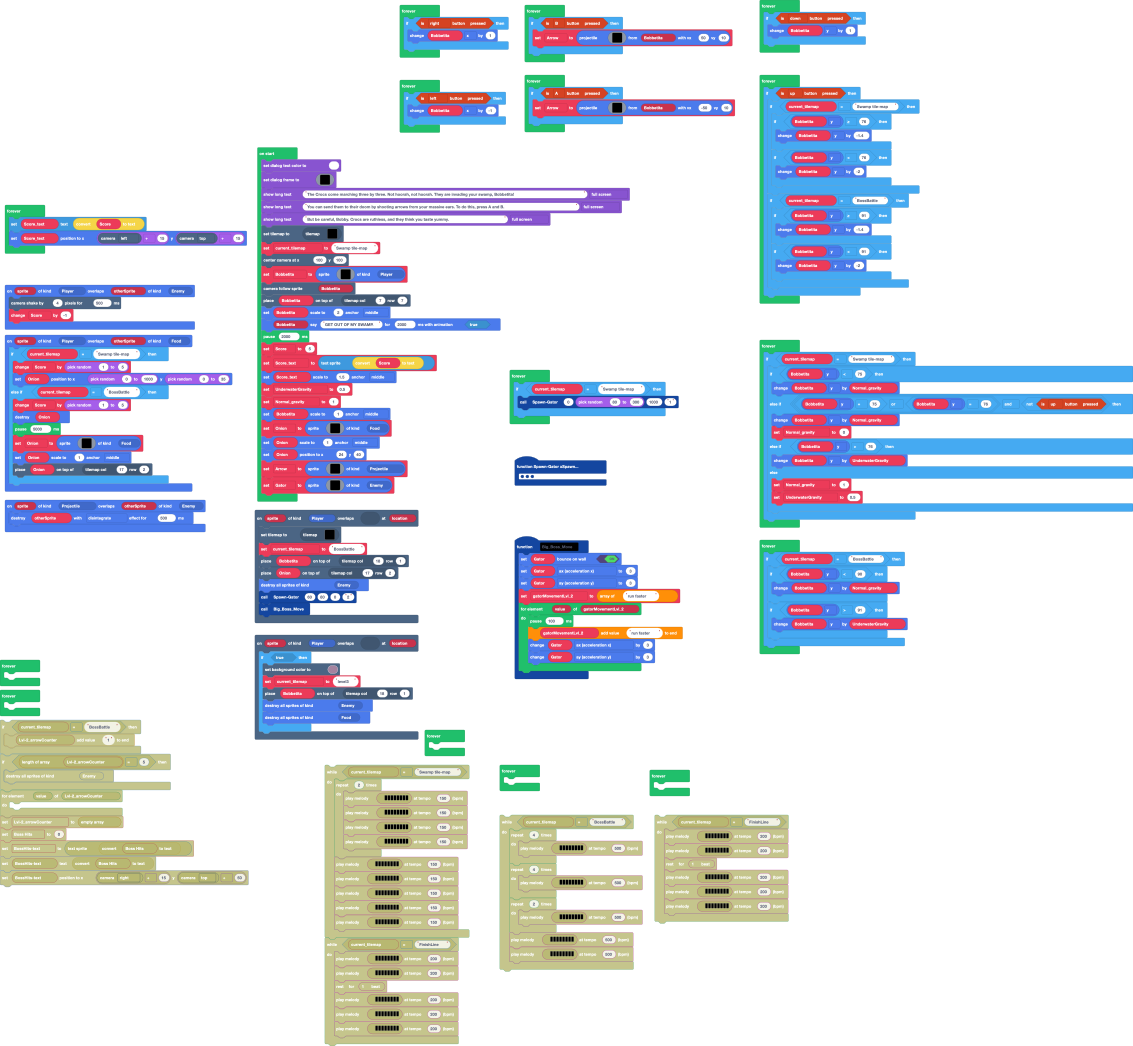
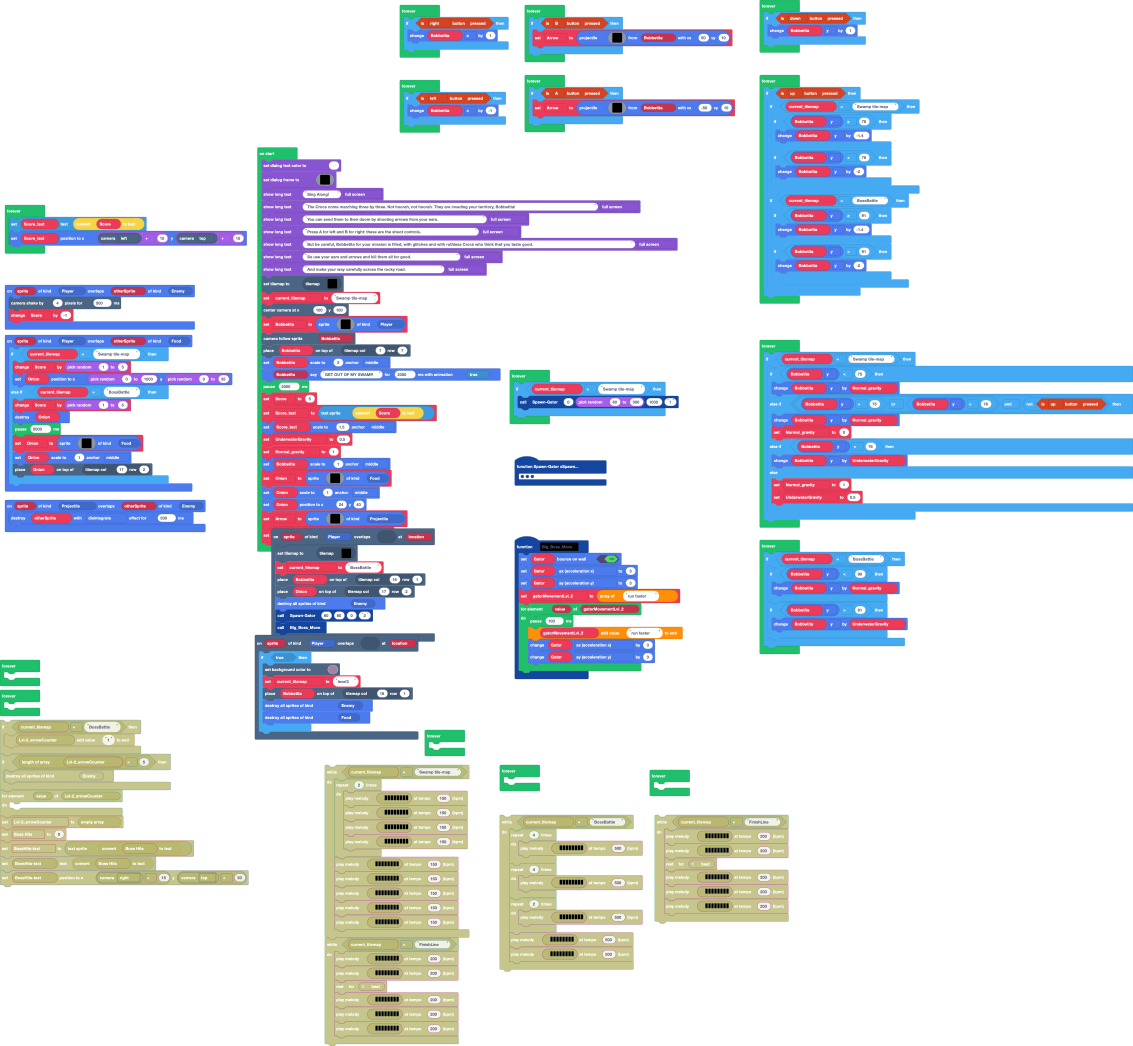
Changed the dialogue to be a song.

Changed region(s): [[0.2162, 0.153, 0.6178, 0.6119]]

diff --git a/main.ts b/main.ts
@@ -75,9 +75,13 @@ let Bobbetita: Sprite = null
 let current_tilemap = ""
 game.setDialogTextColor(1)
 game.setDialogFrame(assets.image`Dialog place`)
-game.showLongText("The Crocs come marching three by three. Not hoorah, not hoorah. They are invading your swamp, Bobbetita!", DialogLayout.Full)
-game.showLongText("You can send them to their doom by shooting arrows from your massive ears. To do this, press A and B.", DialogLayout.Full)
-game.showLongText("But be careful, Bobby. Crocs are ruthless, and they think you taste yummy.", DialogLayout.Full)
+game.showLongText("Sing Along!", DialogLayout.Full)
+game.showLongText("The Crocs come marching three by three. Not hoorah, not hoorah. They are invading your territory, Bobbetita!", DialogLayout.Full)
+game.showLongText("You can send them to their doom by shooting arrows from your ears.", DialogLayout.Full)
+game.showLongText("Press A for left and B for right: these are the shoot controls.", DialogLayout.Full)
+game.showLongText("But be careful, Bobbetita for your mission is filled, with glitches and with ruthless Crocs who think that you taste good.", DialogLayout.Full)
+game.showLongText("So use your ears and arrows and kill them all for good. ", DialogLayout.Full)
+game.showLongText("And make your way carefully across the rocky road.", DialogLayout.Full)
 tiles.setCurrentTilemap(tilemap`Swamp tile-map`)
 current_tilemap = "Swamp tile-map"
 scene.centerCameraAt(100, 100)
